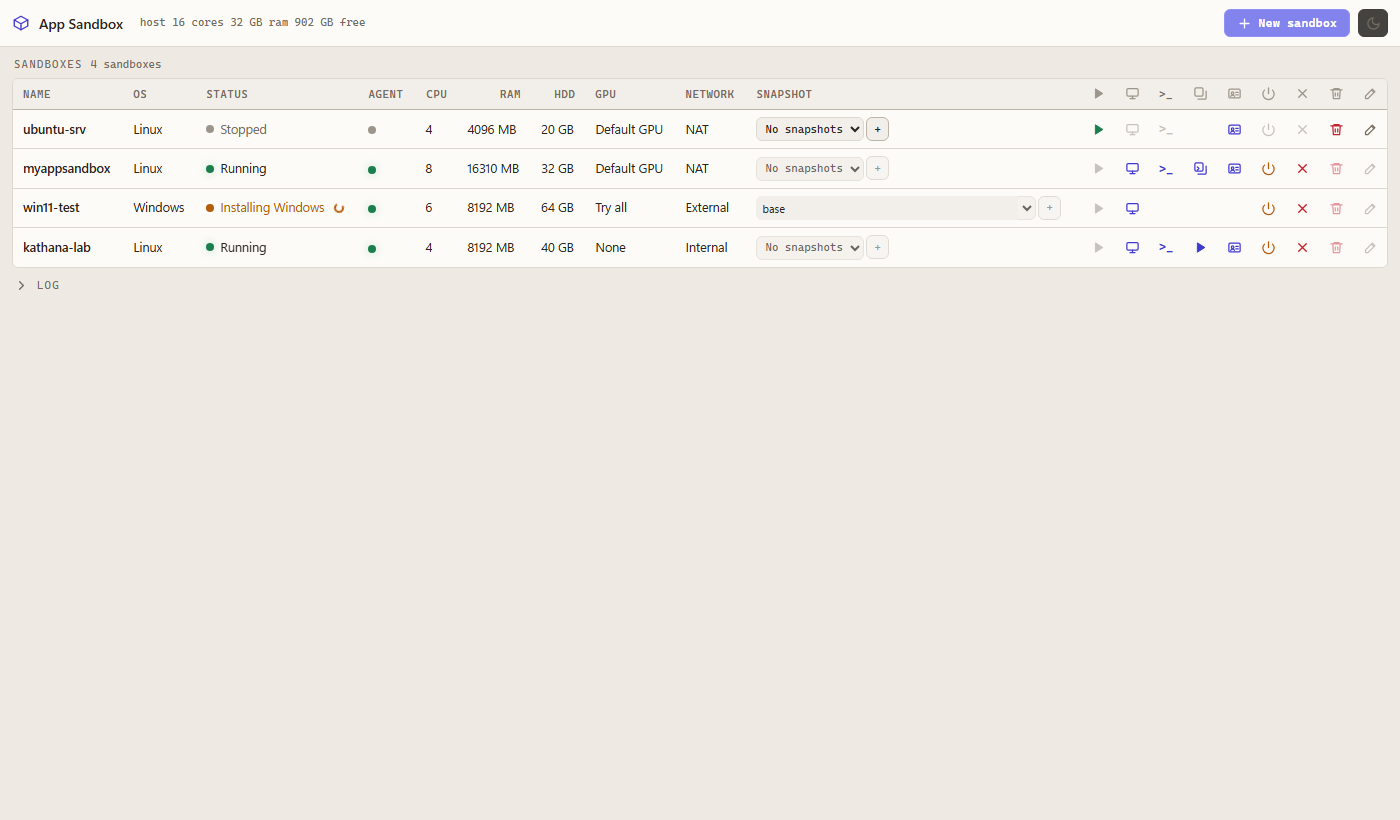
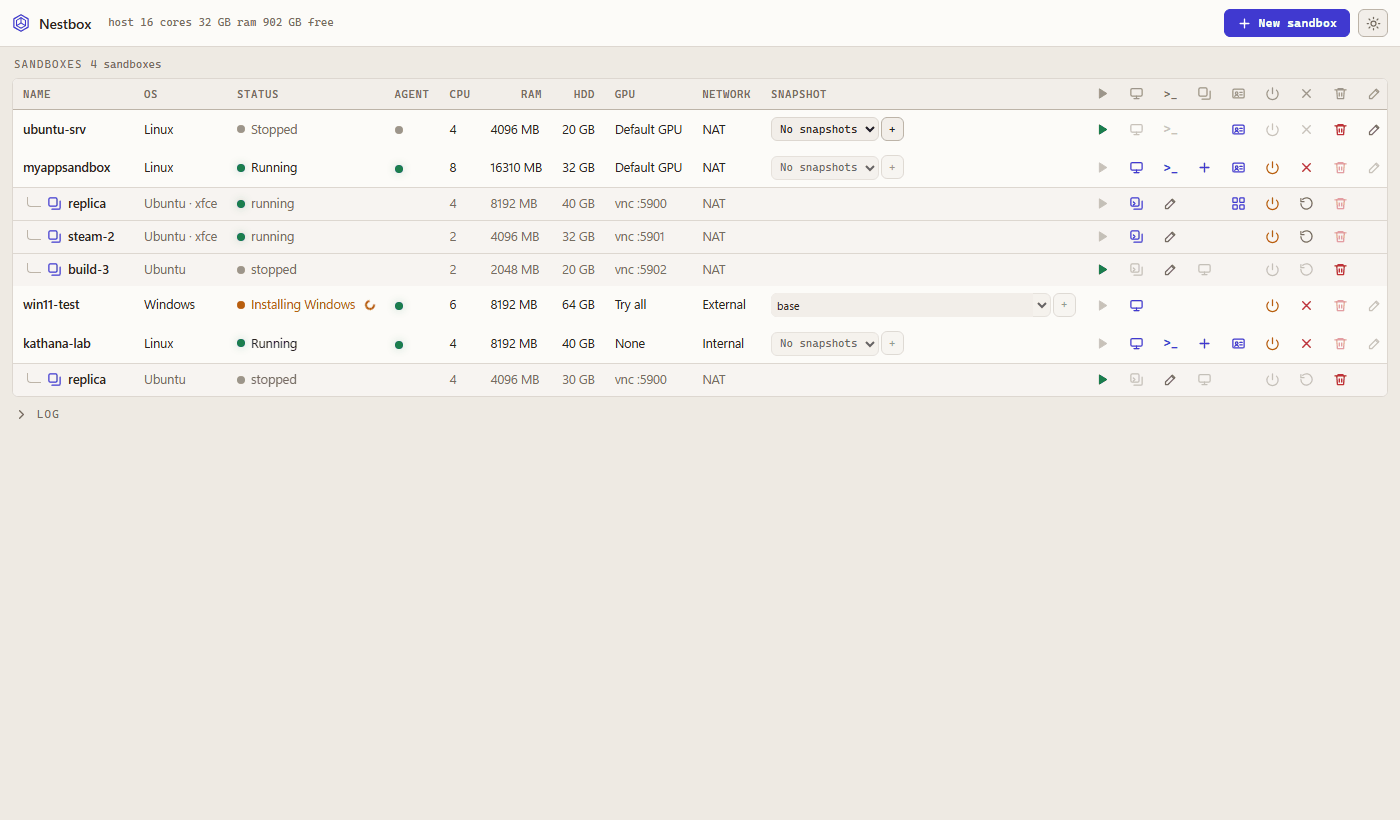
docs: regenerate the screenshots, and add the replica grid
The three in docs/screenshots/ had gone stale in three ways: the light one
still carried the old "App Sandbox" wordmark, none of them had the new mark,
and the replica rows predated the one-cell-per-column layout, so they showed a
run-on line instead of OS, cores, RAM, disk and console under the same headers
as the sandbox above them. A fourth shot is new: the viewer in grid mode, every
running replica of a sandbox tiled in one window.

tools/brand/make-screenshots.py does it, so this does not go stale again by
hand. It copies web/ to a scratch directory, adds a script that hands the page
the same fullState message the native host sends, and shoots it with headless
Edge. The interface in the images is therefore the one that ships -- same CSS,
same markup, same app.js -- and re-running it after a UI change is one command.
The viewer's tiles get a stub in place of window.NoVNC that paints a generic
desktop, since a screenshot run has no guest to connect to; the bar, the grid
and the tile chrome around them are real. docs/screenshots/README.md says which
parts are sample data.

The shots are quantized to 256 colours on the way out -- indistinguishable on
flat UI, and about a third of the bytes.

diff --git a/tools/brand/make-screenshots.py b/tools/brand/make-screenshots.py
@@ -1,0 +1,302 @@
+#!/usr/bin/env python3
+"""Regenerate docs/screenshots/ from the real web UI.
+
+    python tools/brand/make-screenshots.py
+
+The pages in web/ are the whole interface; the only thing they need from the
+native host is a `fullState` message. So this copies web/ to a scratch
+directory, drops a small script next to it that feeds the page a sample state,
+and shoots the result with headless Edge (or Chrome). Nothing here reimplements
+the UI -- the CSS, the markup and app.js are the ones that ship, so a screenshot
+cannot drift from the interface the way a hand-cropped capture does.
+
+The state is sample data, not a recording of a real machine: made-up sandbox
+names and sizes, and the viewer's tiles are placeholder desktops rather than
+live VNC framebuffers. Everything that is Nestbox's own interface -- the table,
+the chrome, the modal, the grid -- is genuinely rendered.
+"""
+import os
+import shutil
+import subprocess
+import sys
+import tempfile
+
+REPO = os.path.dirname(os.path.dirname(os.path.dirname(os.path.abspath(__file__))))
+WEB = os.path.join(REPO, "web")
+OUT = os.path.join(REPO, "docs", "screenshots")
+
+WIDTH, HEIGHT = 1400, 820
+VIEWER_W, VIEWER_H = 1400, 900
+
+BROWSERS = [
+    r"C:\Program Files (x86)\Microsoft\Edge\Application\msedge.exe",
+    r"C:\Program Files\Microsoft\Edge\Application\msedge.exe",
+    r"C:\Program Files\Google\Chrome\Application\chrome.exe",
+    "/usr/bin/microsoft-edge",
+    "/usr/bin/google-chrome",
+    "/usr/bin/chromium",
+]
+
+# --------------------------------------------------------------- sample state
+
+DEMO_JS = r"""
+/* Sample state for the documentation screenshots. Loaded after app.js, it
+   hands the page the same `fullState` message the native host sends, then
+   poses whichever shot the query string asks for. */
+(function() {
+    var shot = (location.search.match(/[?&]shot=([^&]*)/) || [])[1] || 'main';
+
+    var hostInfo = { hostCores: 16, vmCores: 18, hostRamMb: 32611, vmRamMb: 28598,
+                     freeGb: 902, vmHddGb: 156 };
+
+    var vms = [
+        { name: 'ubuntu-srv', osType: 'Linux', running: false, agentOnline: false,
+          installComplete: true, cpuCores: 4, ramMb: 4096, hddGb: 20,
+          gpuMode: 1, networkMode: 1, sshEnabled: true, sshState: 0, sshPort: 0,
+          hasIdentity: true, replicas: '', snapshots: [], baseBranches: [] },
+
+        { name: 'myappsandbox', osType: 'Linux', running: true, agentOnline: true,
+          installComplete: true, cpuCores: 8, ramMb: 16310, hddGb: 32,
+          gpuMode: 1, networkMode: 1, sshEnabled: true, sshState: 4, sshPort: 35413,
+          hasIdentity: true, snapshots: [], baseBranches: [],
+          replicas: JSON.stringify([
+              { name: 'replica', state: 'running', vnc: 5900, desktop: true,
+                cpus: 4, ram: 8192, disk: 40 },
+              { name: 'steam-2', state: 'running', vnc: 5901, desktop: true,
+                cpus: 2, ram: 4096, disk: 32 },
+              { name: 'build-3', state: 'stopped', vnc: 5902, desktop: false,
+                cpus: 2, ram: 2048, disk: 20 }
+          ]) },
+
+        { name: 'win11-test', osType: 'Windows', running: true, agentOnline: true,
+          installComplete: false, cpuCores: 6, ramMb: 8192, hddGb: 64,
+          gpuMode: 2, networkMode: 2, sshEnabled: false, sshState: 0,
+          hasSnapshots: true, snapCurrent: -1, snapCurrentBranch: -1,
+          snapshots: [{ name: 'base', branches: [] }], baseBranches: [],
+          replicas: '' },
+
+        { name: 'kathana-lab', osType: 'Linux', running: true, agentOnline: true,
+          installComplete: true, cpuCores: 4, ramMb: 8192, hddGb: 40,
+          gpuMode: 0, networkMode: 3, sshEnabled: true, sshState: 2, sshPort: 35414,
+          hasIdentity: true, snapshots: [], baseBranches: [],
+          replicas: JSON.stringify([
+              { name: 'replica', state: 'stopped', vnc: 5900, desktop: false,
+                cpus: 4, ram: 4096, disk: 30 }
+          ]) }
+    ];
+
+    var log = [
+        'HCS callback registered [V2] for "myappsandbox".',
+        'Starting VM "myappsandbox"...',
+        'GPU-PV applied successfully.',
+        'Agent online for "myappsandbox".',
+        '[myappsandbox] VM identity: applied: sys_vendor, product_name, bios_vendor, board_name, chassis_type, systemd-detect-virt, dmidecode',
+        'SSH proxy listening on 127.0.0.1:35413 for "myappsandbox".',
+        '[myappsandbox] VNC server listening on guest port 5900.',
+        '[myappsandbox] Nested replica "replica": running.',
+        '[myappsandbox] Nested replica "steam-2": running.'
+    ];
+
+    function pose() {
+        if (shot === 'light') document.documentElement.setAttribute('data-theme', 'light');
+
+        window.onHostMessage({ type: 'fullState', vms: vms, hostInfo: hostInfo,
+                               adapters: ['Ethernet'], defaultAdapter: 0, templates: [] });
+        log.forEach(function(line) { window.onHostMessage({ type: 'log', message: line }); });
+
+        var logSection = document.getElementById('log-section');
+        if (logSection) logSection.classList.toggle('collapsed', shot === 'light');
+
+        if (shot === 'new-sandbox') {
+            openCreateModal();
+            /* Linux, so the fields that make Nestbox what it is are on screen:
+               the nested-replica option and the identity profile. */
+            document.getElementById('os-type').value = 'Linux';
+            applyOsTypeUI();
+            document.getElementById('replica-auto').checked = true;
+            /* A name that is already taken, so the inline validation shows. */
+            var nameEl = document.getElementById('vm-name');
+            nameEl.value = 'myappsandbox';
+            nameEl.dispatchEvent(new Event('input'));
+            nameEl.focus();
+        }
+        document.documentElement.setAttribute('data-shot-ready', '1');
+    }
+
+    if (document.readyState === 'complete') pose();
+    else window.addEventListener('load', pose);
+})();
+"""
+
+# The viewer window draws live VNC framebuffers. For a screenshot there is no
+# guest to connect to, so window.NoVNC is replaced with a stub that paints a
+# placeholder desktop into each tile. Everything around the tiles -- the bar,
+# the grid, the tile chrome and the focus ring -- is the real viewer.
+DEMO_NOVNC_JS = r"""
+(function() {
+    var HUES = [212, 268, 156, 28];
+    var seq = 0;
+
+    /* A generic desktop: a panel, two desktop icons and one file-manager
+       window. Deliberately says nothing about the guest -- it stands in for a
+       framebuffer so the tiling is legible, it is not a picture of a real one. */
+    function desktop(container, hue) {
+        var folders = '';
+        for (var i = 0; i < 8; i++) folders += '<div class="demo-file"><i></i><b></b></div>';
+        container.innerHTML =
+            '<div class="demo-desk" style="--h:' + hue + '">' +
+              '<div class="demo-panel">' +
+                '<span class="demo-app">Applications</span>' +
+                '<span class="demo-sp"></span>' +
+                '<span class="demo-clock">21:04</span>' +
+              '</div>' +
+              '<div class="demo-body">' +
+                '<div class="demo-icons">' +
+                  '<div class="demo-icon"><i></i><span>Home</span></div>' +
+                  '<div class="demo-icon"><i></i><span>Trash</span></div>' +
+                '</div>' +
+                '<div class="demo-win">' +
+                  '<div class="demo-win-bar"><span class="demo-dots"></span>File Manager</div>' +
+                  '<div class="demo-win-body">' +
+                    '<div class="demo-side"><u></u><u></u><u></u><u></u></div>' +
+                    '<div class="demo-files">' + folders + '</div>' +
+                  '</div>' +
+                '</div>' +
+              '</div>' +
+            '</div>';
+    }
+
+    function StubRFB(container, url, opts) {
+        var self = this;
+        this._handlers = {};
+        desktop(container, HUES[seq++ % HUES.length]);
+        setTimeout(function() {
+            (self._handlers['connect'] || []).forEach(function(fn) { fn({}); });
+        }, 0);
+    }
+    StubRFB.prototype.addEventListener = function(type, fn) {
+        (this._handlers[type] = this._handlers[type] || []).push(fn);
+    };
+    StubRFB.prototype.focus = function() {};
+    StubRFB.prototype.blur = function() {};
+    StubRFB.prototype.disconnect = function() {};
+    StubRFB.prototype.sendCtrlAltDel = function() {};
+    StubRFB.prototype.sendCredentials = function() {};
+
+    window.NoVNC = Promise.resolve(StubRFB);
+
+    var css = document.createElement('style');
+    css.textContent = [
+        /* .tile-screen is a plain flex child, so the stand-in desktop fills it
+           by size rather than by anchoring to it. */
+        '.demo-desk{width:100%;height:100%;display:flex;flex-direction:column;background:',
+        '  radial-gradient(120% 100% at 30% 0%, hsl(var(--h) 42% 26%), hsl(var(--h) 46% 12%));',
+        '  font:12px system-ui,sans-serif;color:#e8e8ee}',
+        '.demo-panel{display:flex;align-items:center;gap:8px;height:26px;padding:0 10px;',
+        '  background:rgba(12,13,18,.72);border-bottom:1px solid rgba(255,255,255,.07)}',
+        '.demo-app{font-weight:600;font-size:11px;opacity:.9}',
+        '.demo-sp{flex:1}',
+        '.demo-clock{font:11px ui-monospace,monospace;opacity:.75}',
+        '.demo-body{flex:1;min-height:0;display:flex;padding:14px;gap:18px}',
+        '.demo-icons{display:flex;flex-direction:column;gap:14px;align-items:flex-start}',
+        '.demo-icon{display:flex;flex-direction:column;align-items:center;width:56px;gap:5px;',
+        '  font-size:10px;opacity:.85;text-shadow:0 1px 2px rgba(0,0,0,.6)}',
+        '.demo-icon i{width:26px;height:22px;border-radius:3px;background:rgba(255,255,255,.22);',
+        '  border:1px solid rgba(255,255,255,.3)}',
+        '.demo-win{flex:1;min-width:0;max-width:420px;height:200px;align-self:flex-start;',
+        '  margin-top:10px;border-radius:5px;overflow:hidden;background:#23242b;',
+        '  border:1px solid rgba(255,255,255,.13);box-shadow:0 10px 26px rgba(0,0,0,.42);',
+        '  display:flex;flex-direction:column}',
+        '.demo-win-bar{display:flex;align-items:center;gap:8px;height:24px;padding:0 8px;',
+        '  font-size:11px;background:#2e303a;border-bottom:1px solid rgba(255,255,255,.09)}',
+        '.demo-dots{width:26px;height:8px;border-radius:4px;background:rgba(255,255,255,.2)}',
+        '.demo-win-body{flex:1;min-height:0;display:flex}',
+        '.demo-side{width:64px;padding:8px 6px;display:flex;flex-direction:column;gap:8px;',
+        '  background:#1e1f26;border-right:1px solid rgba(255,255,255,.07)}',
+        '.demo-side u{height:7px;border-radius:3px;background:rgba(255,255,255,.13)}',
+        '.demo-files{flex:1;padding:10px;display:grid;grid-template-columns:repeat(4,1fr);',
+        '  gap:10px;align-content:start}',
+        '.demo-file{display:flex;flex-direction:column;align-items:center;gap:4px}',
+        '.demo-file i{width:24px;height:19px;border-radius:2px;background:hsl(var(--h) 40% 52%/.65)}',
+        '.demo-file b{width:28px;height:5px;border-radius:3px;background:rgba(255,255,255,.16)}'
+    ].join('\n');
+    document.head.appendChild(css);
+})();
+"""
+
+SHOTS = [
+    ("nestbox-main.png", "index.html?shot=main", WIDTH, HEIGHT),
+    ("nestbox-light.png", "index.html?shot=light", WIDTH, HEIGHT),
+    ("nestbox-new-sandbox.png", "index.html?shot=new-sandbox", WIDTH, HEIGHT),
+    ("nestbox-grid.png",
+     "viewer.html?grid=1&vm=1&vmName=myappsandbox"
+     "&tiles=replica:5901:5900,steam-2:5902:5900,build-3:5903:5900,ci-runner:5904:5900",
+     VIEWER_W, VIEWER_H),
+]
+
+
+def find_browser():
+    for path in BROWSERS:
+        if os.path.exists(path):
+            return path
+    sys.exit("no Edge or Chrome found; install one or edit BROWSERS")
+
+
+def stage(tmp):
+    """web/ plus the two demo scripts, with the pages wired to load them."""
+    for name in os.listdir(WEB):
+        src = os.path.join(WEB, name)
+        if os.path.isfile(src):
+            shutil.copy2(src, os.path.join(tmp, name))
+
+    open(os.path.join(tmp, "demo-state.js"), "w", encoding="utf-8").write(DEMO_JS)
+    open(os.path.join(tmp, "demo-novnc.js"), "w", encoding="utf-8").write(DEMO_NOVNC_JS)
+
+    index = os.path.join(tmp, "index.html")
+    html = open(index, encoding="utf-8").read()
+    html = html.replace("</body>", '<script src="demo-state.js"></script>\n</body>')
+    open(index, "w", encoding="utf-8").write(html)
+
+    viewer = os.path.join(tmp, "viewer.html")
+    html = open(viewer, encoding="utf-8").read()
+    # After novnc.js so the stub wins, before viewer.js so it is in place when
+    # the viewer connects.
+    html = html.replace('<script src="viewer.js">',
+                        '<script src="demo-novnc.js"></script>\n<script src="viewer.js">')
+    open(viewer, "w", encoding="utf-8").write(html)
+
+
+def shoot(browser, tmp, name, page, w, h):
+    out = os.path.join(OUT, name)
+    subprocess.run([
+        browser, "--headless=new", "--disable-gpu", "--hide-scrollbars",
+        "--window-size=%d,%d" % (w, h),
+        "--virtual-time-budget=4000",
+        "--screenshot=" + out,
+        "file:///" + os.path.join(tmp, page).replace("\\", "/"),
+    ], check=True, stdout=subprocess.DEVNULL, stderr=subprocess.DEVNULL)
+    kb = shrink(out)
+    print("%-26s %5d x %-4d %5d KB  %s" % (name, w, h, kb, page.split("?")[0]))
+
+
+def shrink(path):
+    """A UI screenshot is flat colour and gradients: 256 indexed colours are
+    indistinguishable here and cut the file to roughly a third."""
+    from PIL import Image
+    im = Image.open(path).convert("RGB")
+    im.quantize(colors=256, method=Image.MEDIANCUT,
+                dither=Image.FLOYDSTEINBERG).save(path, optimize=True)
+    return os.path.getsize(path) // 1024
+
+
+def main():
+    browser = find_browser()
+    with tempfile.TemporaryDirectory() as tmp:
+        stage(tmp)
+        for name, page, w, h in SHOTS:
+            shoot(browser, tmp, name, page, w, h)
+    print("-> " + OUT)
+
+
+if __name__ == "__main__":
+    main()

diff --git a/docs/screenshots/README.md b/docs/screenshots/README.md
@@ -1,0 +1,19 @@
+# Screenshots
+
+| File | Shows |
+|---|---|
+| `nestbox-main.png` | The sandbox list, dark theme: four sandboxes, nested replicas as rows under theirs, the log. |
+| `nestbox-light.png` | The same list in the light theme, log collapsed. |
+| `nestbox-new-sandbox.png` | New Sandbox on a Linux guest: the nested-replica option and the identity profile. |
+| `nestbox-grid.png` | The viewer in grid mode — every running replica of a sandbox tiled in one window. |
+
+All four are rendered by `python tools/brand/make-screenshots.py`, which loads the real
+pages from `web/` in headless Edge and feeds them the `fullState` message the native host
+would send. The interface in the images is therefore the interface that ships — the CSS,
+the markup and `app.js` are the real ones, so a screenshot cannot drift from the UI the
+way a hand-taken capture does. Re-run it after a change to the UI.
+
+What is *not* real is the state: the sandbox names, sizes and log lines are sample data,
+and the grid's tiles are placeholder desktops rather than live VNC framebuffers, because
+a screenshot run has no guest to connect to. They stand in for a console so the tiling is
+legible; nothing in them is a claim about what a guest reports.

diff --git a/README.md b/README.md
@@ -32,6 +32,10 @@ macOS support are his work and stay MIT-licensed under his copyright (see
 |---|---|
 | ![New sandbox](docs/screenshots/nestbox-new-sandbox.png) | ![Light theme](docs/screenshots/nestbox-light.png) |
 
+Every running replica of a sandbox in one window, from the grid button on the first replica's row:
+
+![Replica grid](docs/screenshots/nestbox-grid.png)
+
 ## Get it
 
 Build `AppSandbox.sln` (Release, x64) with Visual Studio 2022 or newer. `tools\deploy-local.ps1`
